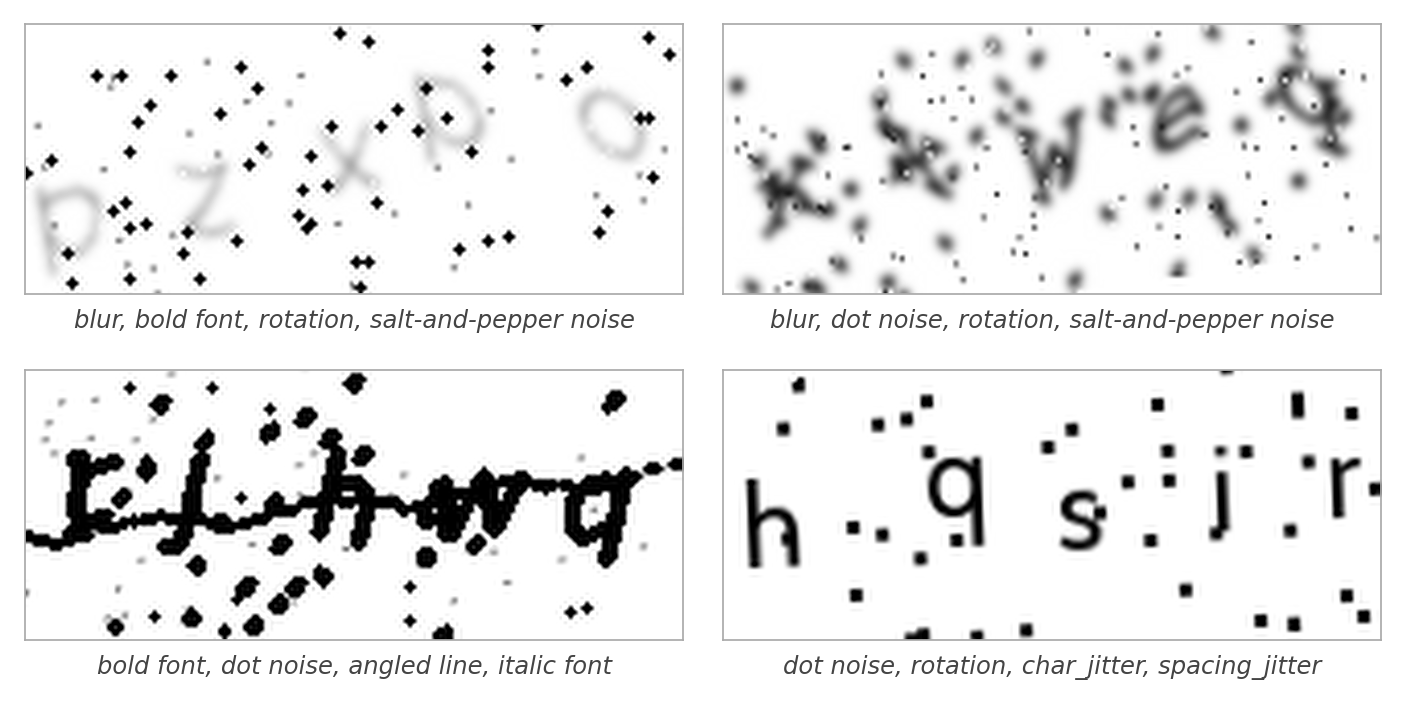
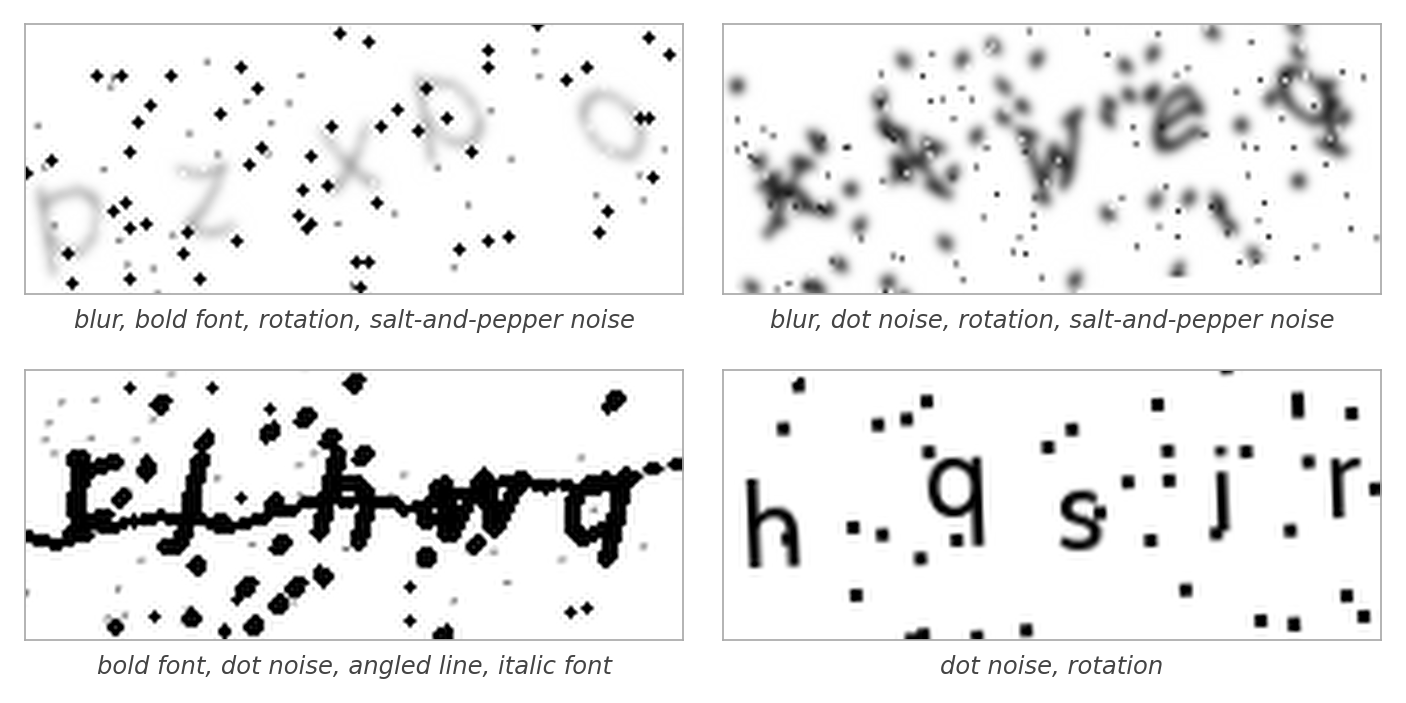
auto-commit

diff --git a/make_challenge_panel.py b/make_challenge_panel.py
@@ -69,14 +69,7 @@ for ax, example in zip(axes.flat, items):
         spine.set_linewidth(0.5)
         spine.set_edgecolor("#aaa")
 
-    # Only show perturbations that have a non-None display name
-    perturbs = [
-        PERTURBATION_DISPLAY[c]
-        for c in bool_cols
-        if example.get(c) and c in PERTURBATION_DISPLAY and PERTURBATION_DISPLAY[c] is not None
-    ]
-    label = ", ".join(perturbs[:4]) if perturbs else "no perturbation"
-    ax.set_xlabel(label, fontsize=7, color="#444", labelpad=4, fontstyle="italic")
+    pass
 
 fig.savefig(OUT, dpi=250, bbox_inches="tight", facecolor="white")
 plt.close(fig)
